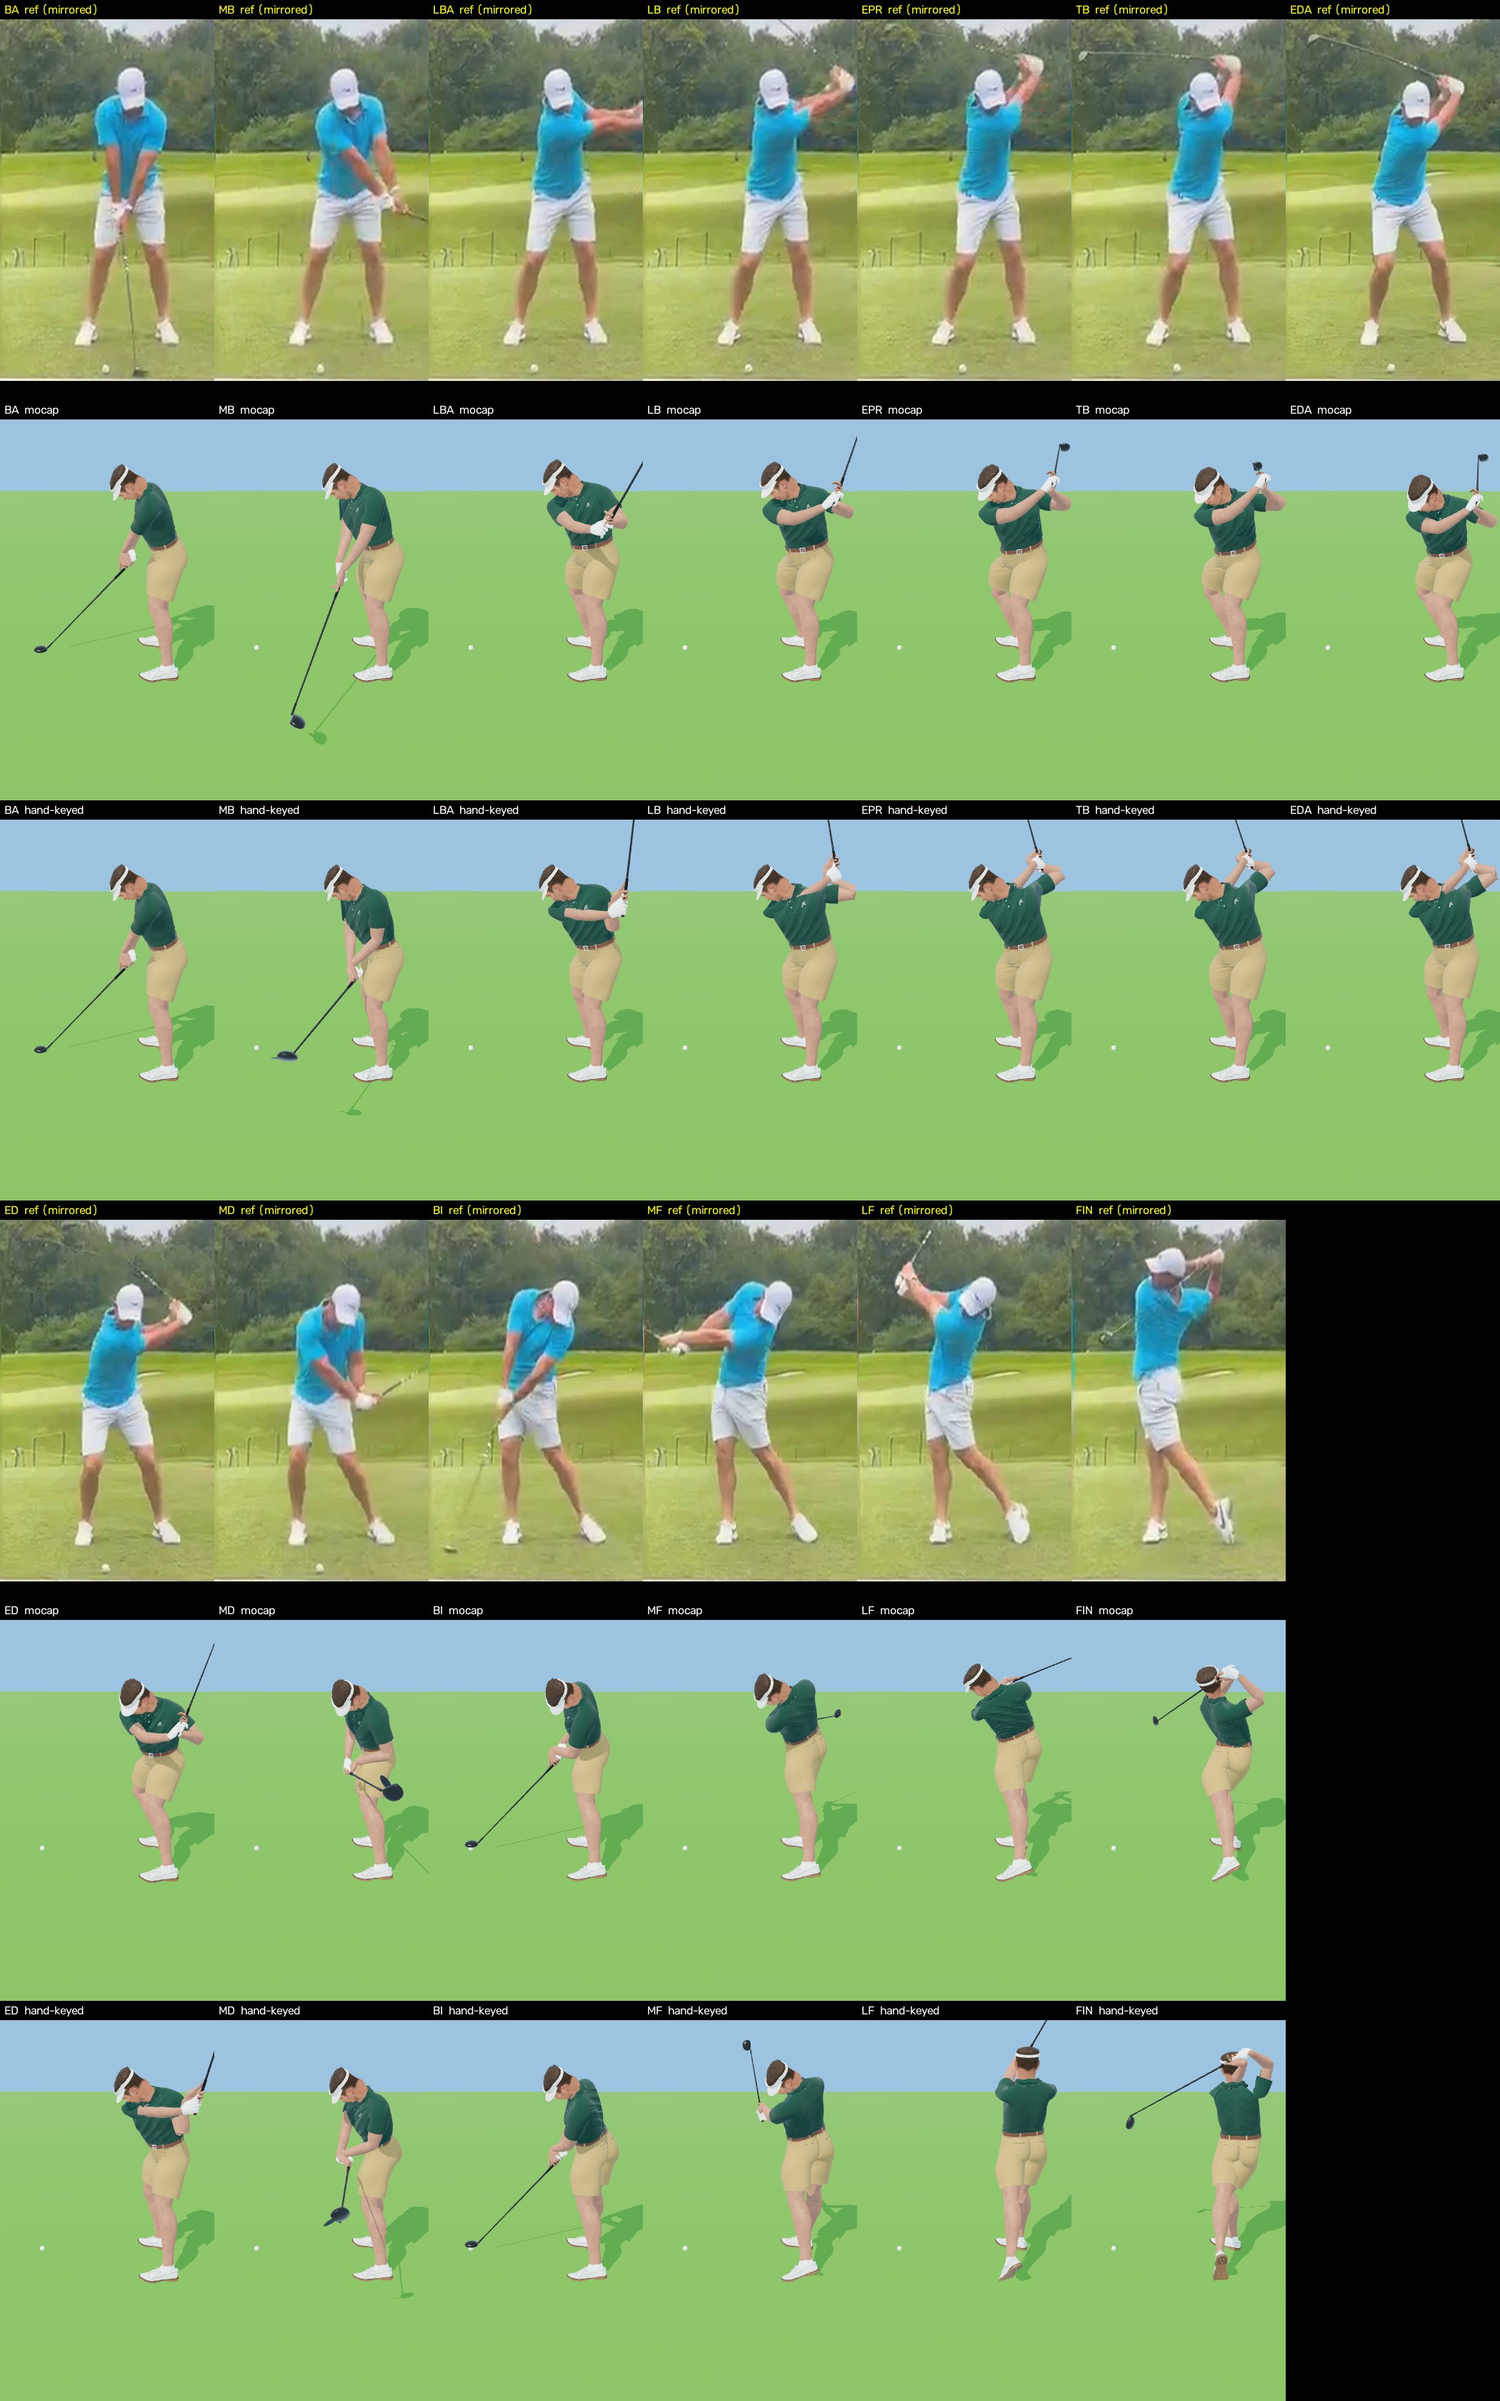
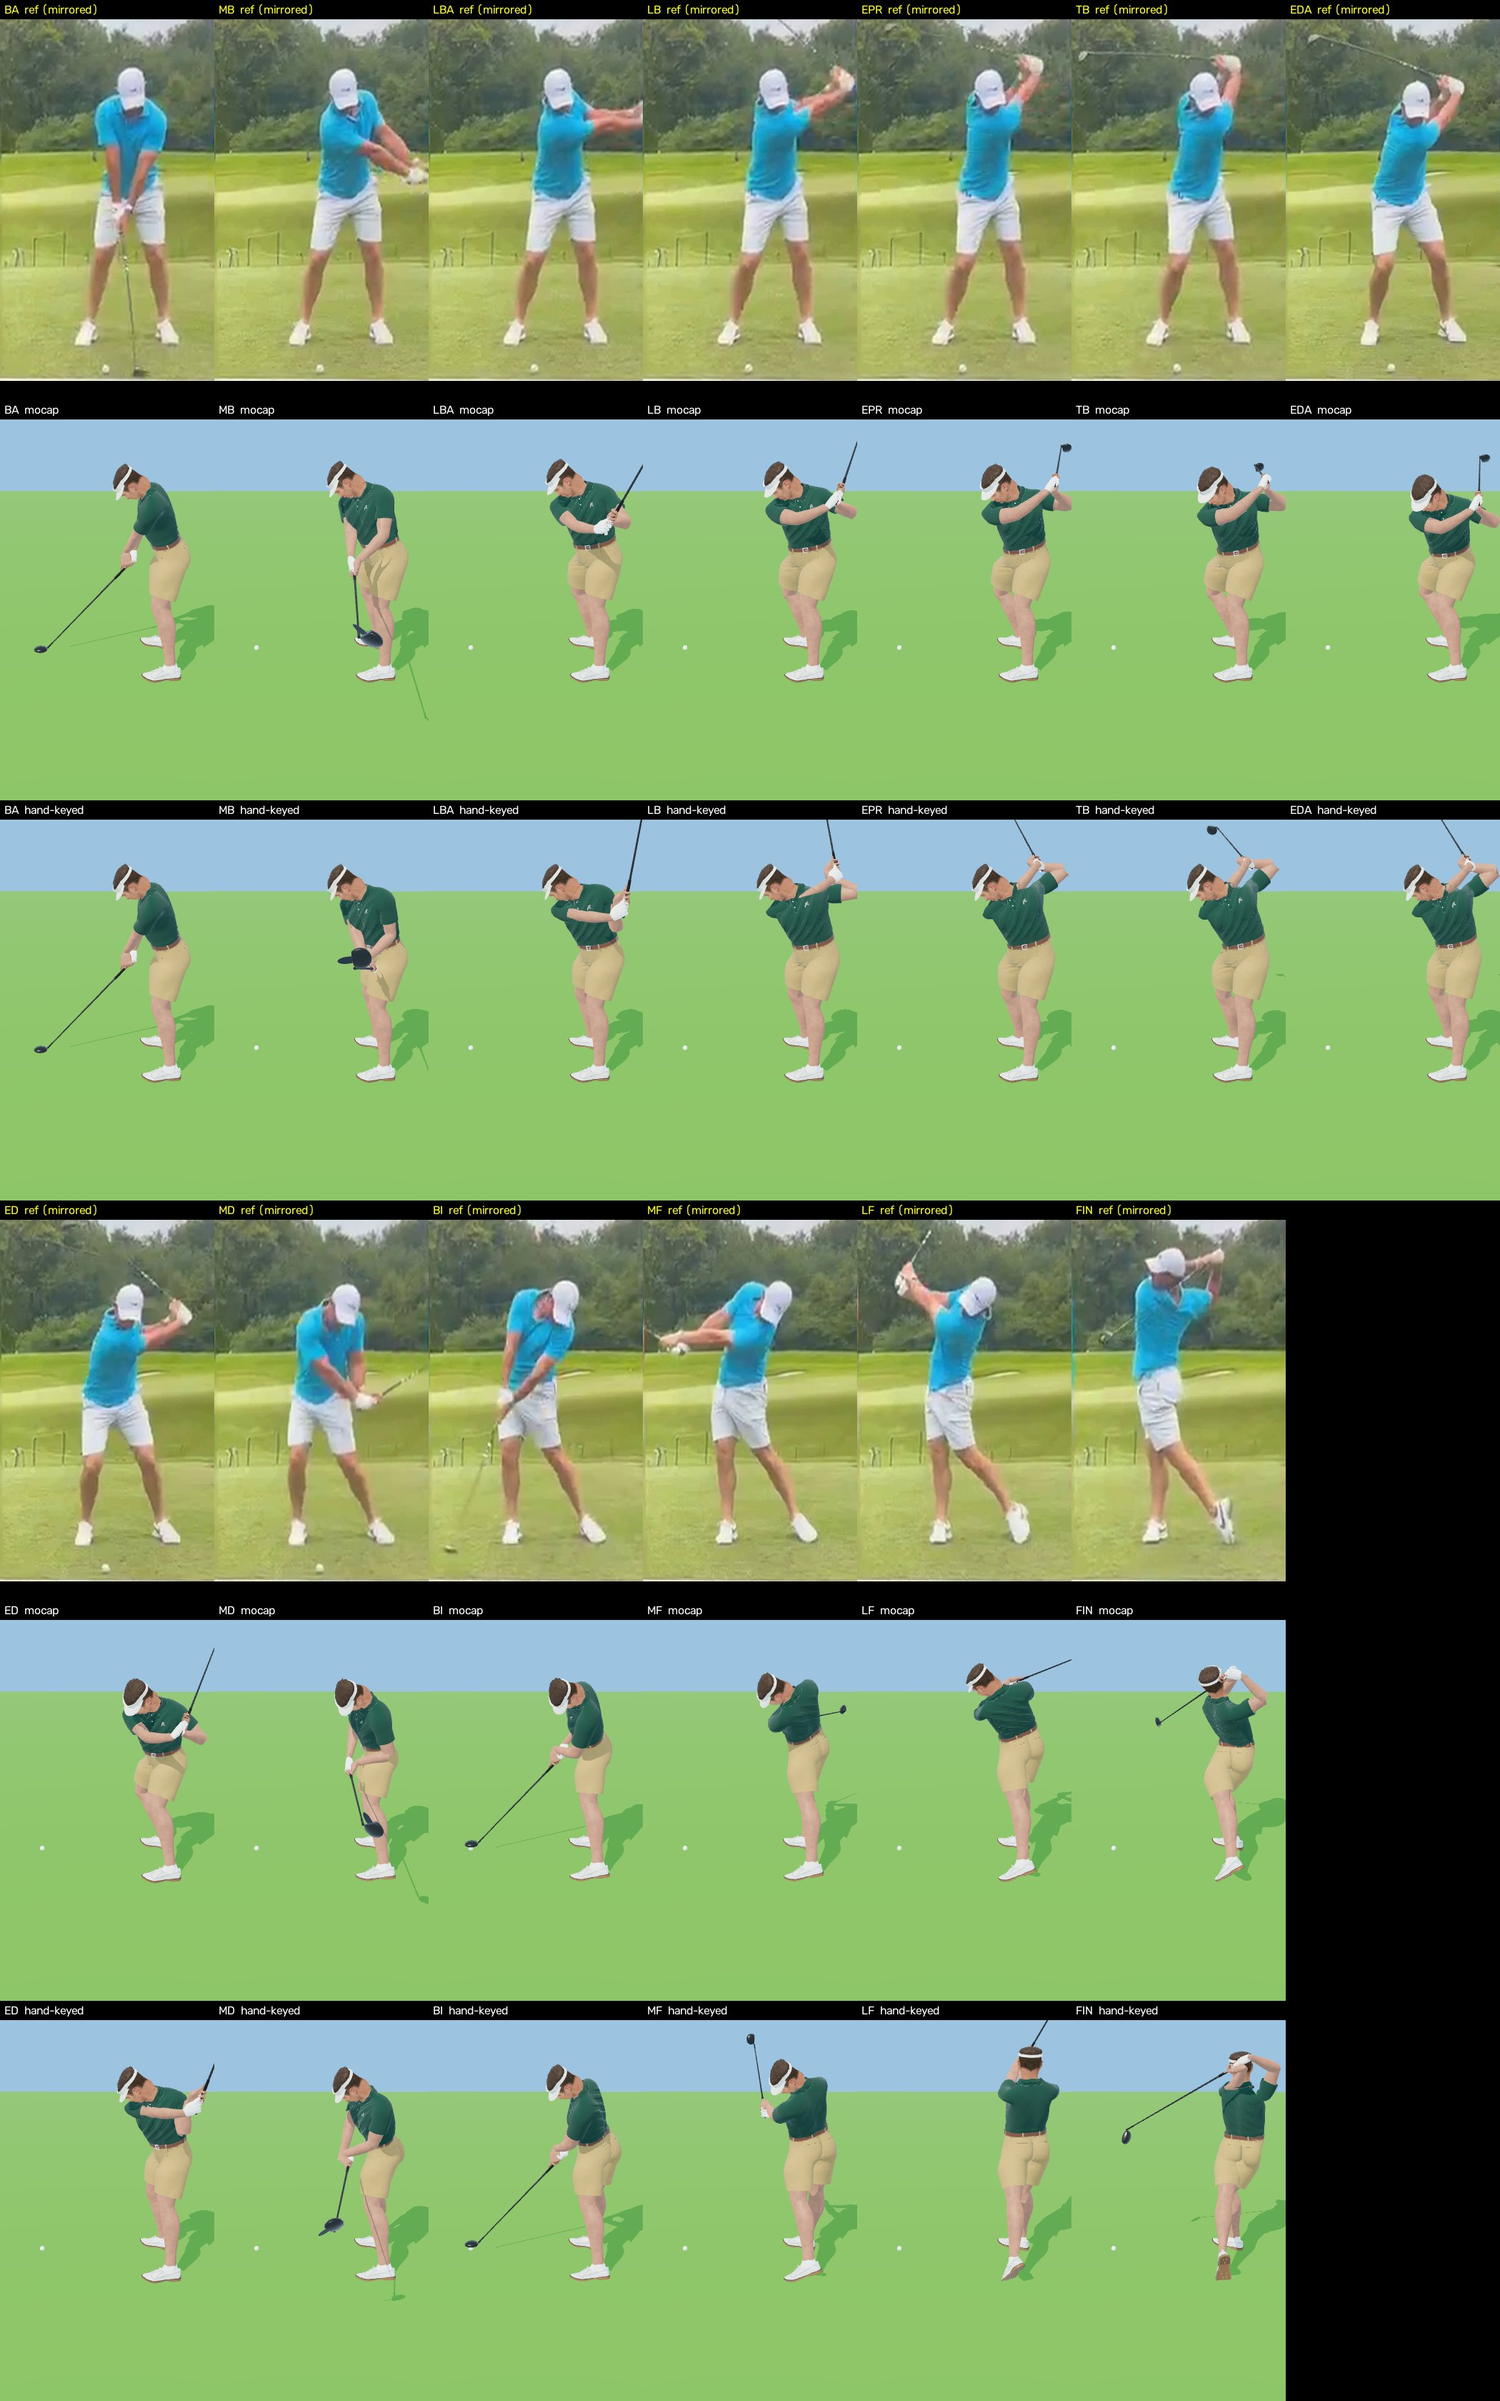
Swing mocap: club-defined events, turf clamp, README, comparison sheets
Claude-Session: https://claude.ai/code/session_01J77fP6SsHRxwgAAVMuBoD3

diff --git a/src/golfer/golfer.ts b/src/golfer/golfer.ts
@@ -275,10 +275,13 @@ export class Golfer {
     this.headAnchor = null; this.legAddr = { L: 9, R: 9 };
     this.update({ phase: 'address', phi: 0, topPhi: PHI_TOP, idleT: 0 });
     this.headAnchor = this.headCentre();
-    this.aoaFix = 0;
-    { const nat = this.pathAngleDeg(); this.aoaFix = Math.tan(THREE.MathUtils.degToRad(this.attackAngleDeg())) - Math.tan(THREE.MathUtils.degToRad(nat)); }
-    this.update({ phase: 'address', phi: 0, topPhi: PHI_TOP, idleT: 0 });
     { const m = this.legMiss(this.pose); this.legAddr = { L: m.L + 1e-3, R: m.R + 1e-3 }; }
+    // calibrate the attack angle on the keyed swing: measure the path as posed, store the slope to add
+    this.aoaFix = 0;
+    { const src = this.swingSource; this.swingSource = 'keyed';
+      const nat = this.pathAngleDeg(); this.aoaFix = Math.tan(THREE.MathUtils.degToRad(this.attackAngleDeg())) - Math.tan(THREE.MathUtils.degToRad(nat));
+      this.swingSource = src; }
+    this.update({ phase: 'address', phi: 0, topPhi: PHI_TOP, idleT: 0 });
   }
 
   /** one hand's frame on the grip, in club space: its long axis, palm normal and wrist position */
@@ -609,11 +612,12 @@ export class Golfer {
       this.rig.apply(p);
     }
     // attack angle: through impact the head's path is tilted to this club's attack angle (down with the wedges, level
-    // with a long iron, up with the teed driver) by raising or lowering the hands a little either side of the ball;
+    // with a long iron, up with the teed driver) by raising or lowering the hands (and the body with them) a little either side of the ball;
     // nothing at the ball itself, fading out within ~half a metre
     if ((s.phase === 'down' || s.phase === 'follow') && this.aoaFix) {
       const x = g.position.x - this.clubAt.x, dy = this.aoaFix * x * Math.exp(-((x / 0.3) ** 2));
-      if (Math.abs(dy) > 1e-5) { g.position.y += dy; p.wristL.y += dy; p.wristR.y += dy; this.rig.apply(p); }
+      // (the whole body rides with the hands, on the legs, so the arms keep their shape)
+      if (Math.abs(dy) > 1e-5) { g.position.y += dy; p.wristL.y += dy; p.wristR.y += dy; p.pelvis.y += dy; this.rig.apply(p); }
     }
     // both hands stay on the club: if either arm can't reach its wrist target, move the club (both hands) toward
     // that shoulder (the trail arm used to fall short of the grip in the through-swing)
@@ -692,6 +696,18 @@ export class Golfer {
     for (const [w, r] of [[pin.address, ref.addr], [pin.impact, ref.imp]] as const) {
       if (w < 1e-4) continue;
       qc.slerp(r.quat, w); g.position.lerp(r.pos, w); p.poleL.lerp(r.poleL, w); p.poleR.lerp(r.poleR, w);
+    }
+    // the club head never goes below where it sat at address (the takeaway brushes the turf, it doesn't dig): if the
+    // captured shaft would put it lower, tip the club up about the lead wrist
+    const dig = ref.addr.pos.y - g.position.y;
+    if (dig > 1e-4) {
+      const grip = this.hands.wristLead.clone().applyQuaternion(qc).add(g.position), armV = g.position.clone().sub(grip), len = armV.length();
+      const ax = new THREE.Vector3().crossVectors(armV, new THREE.Vector3(0, 1, 0));
+      if (ax.lengthSq() > 1e-8) {
+        const ang = Math.asin(Math.min(1, (armV.y + dig) / len)) - Math.asin(Math.max(-1, armV.y / len));
+        const qf = new THREE.Quaternion().setFromAxisAngle(ax.normalize(), ang);
+        qc.premultiply(qf); g.position.copy(grip).add(armV.applyQuaternion(qf));
+      }
     }
     g.quaternion.copy(qc);
     p.wristL.copy(this.hands.wristLead).applyQuaternion(qc).add(g.position);
